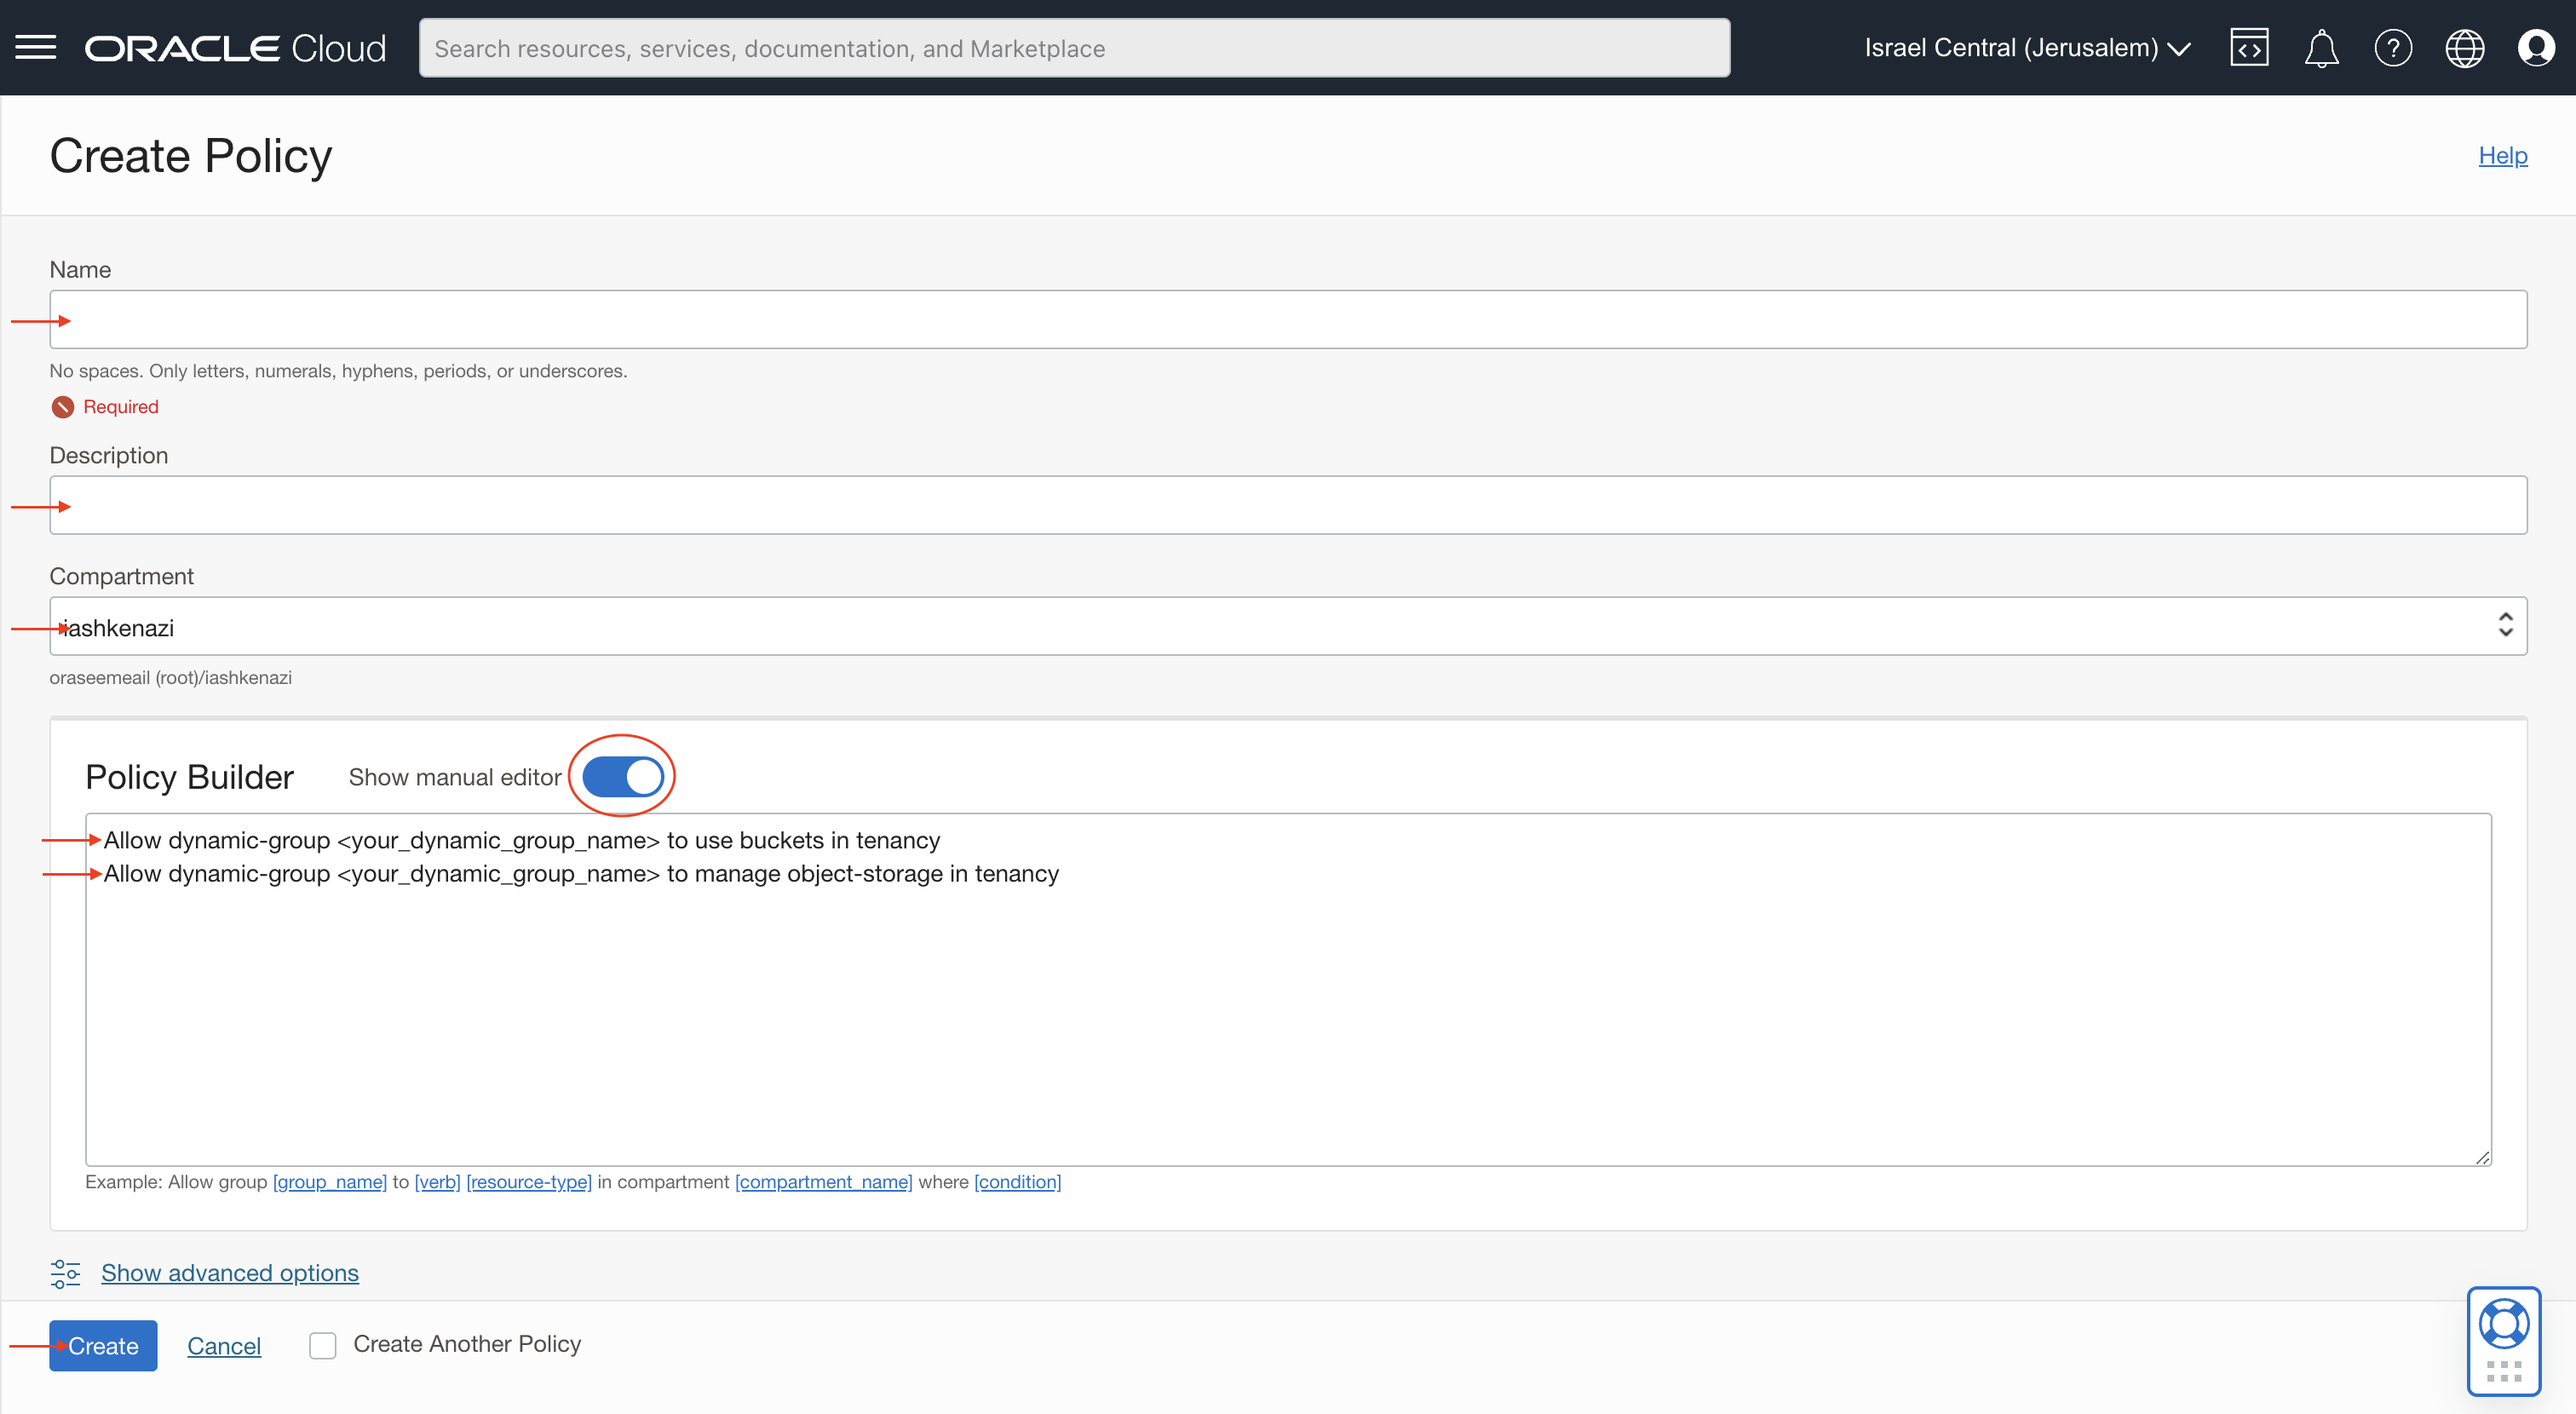
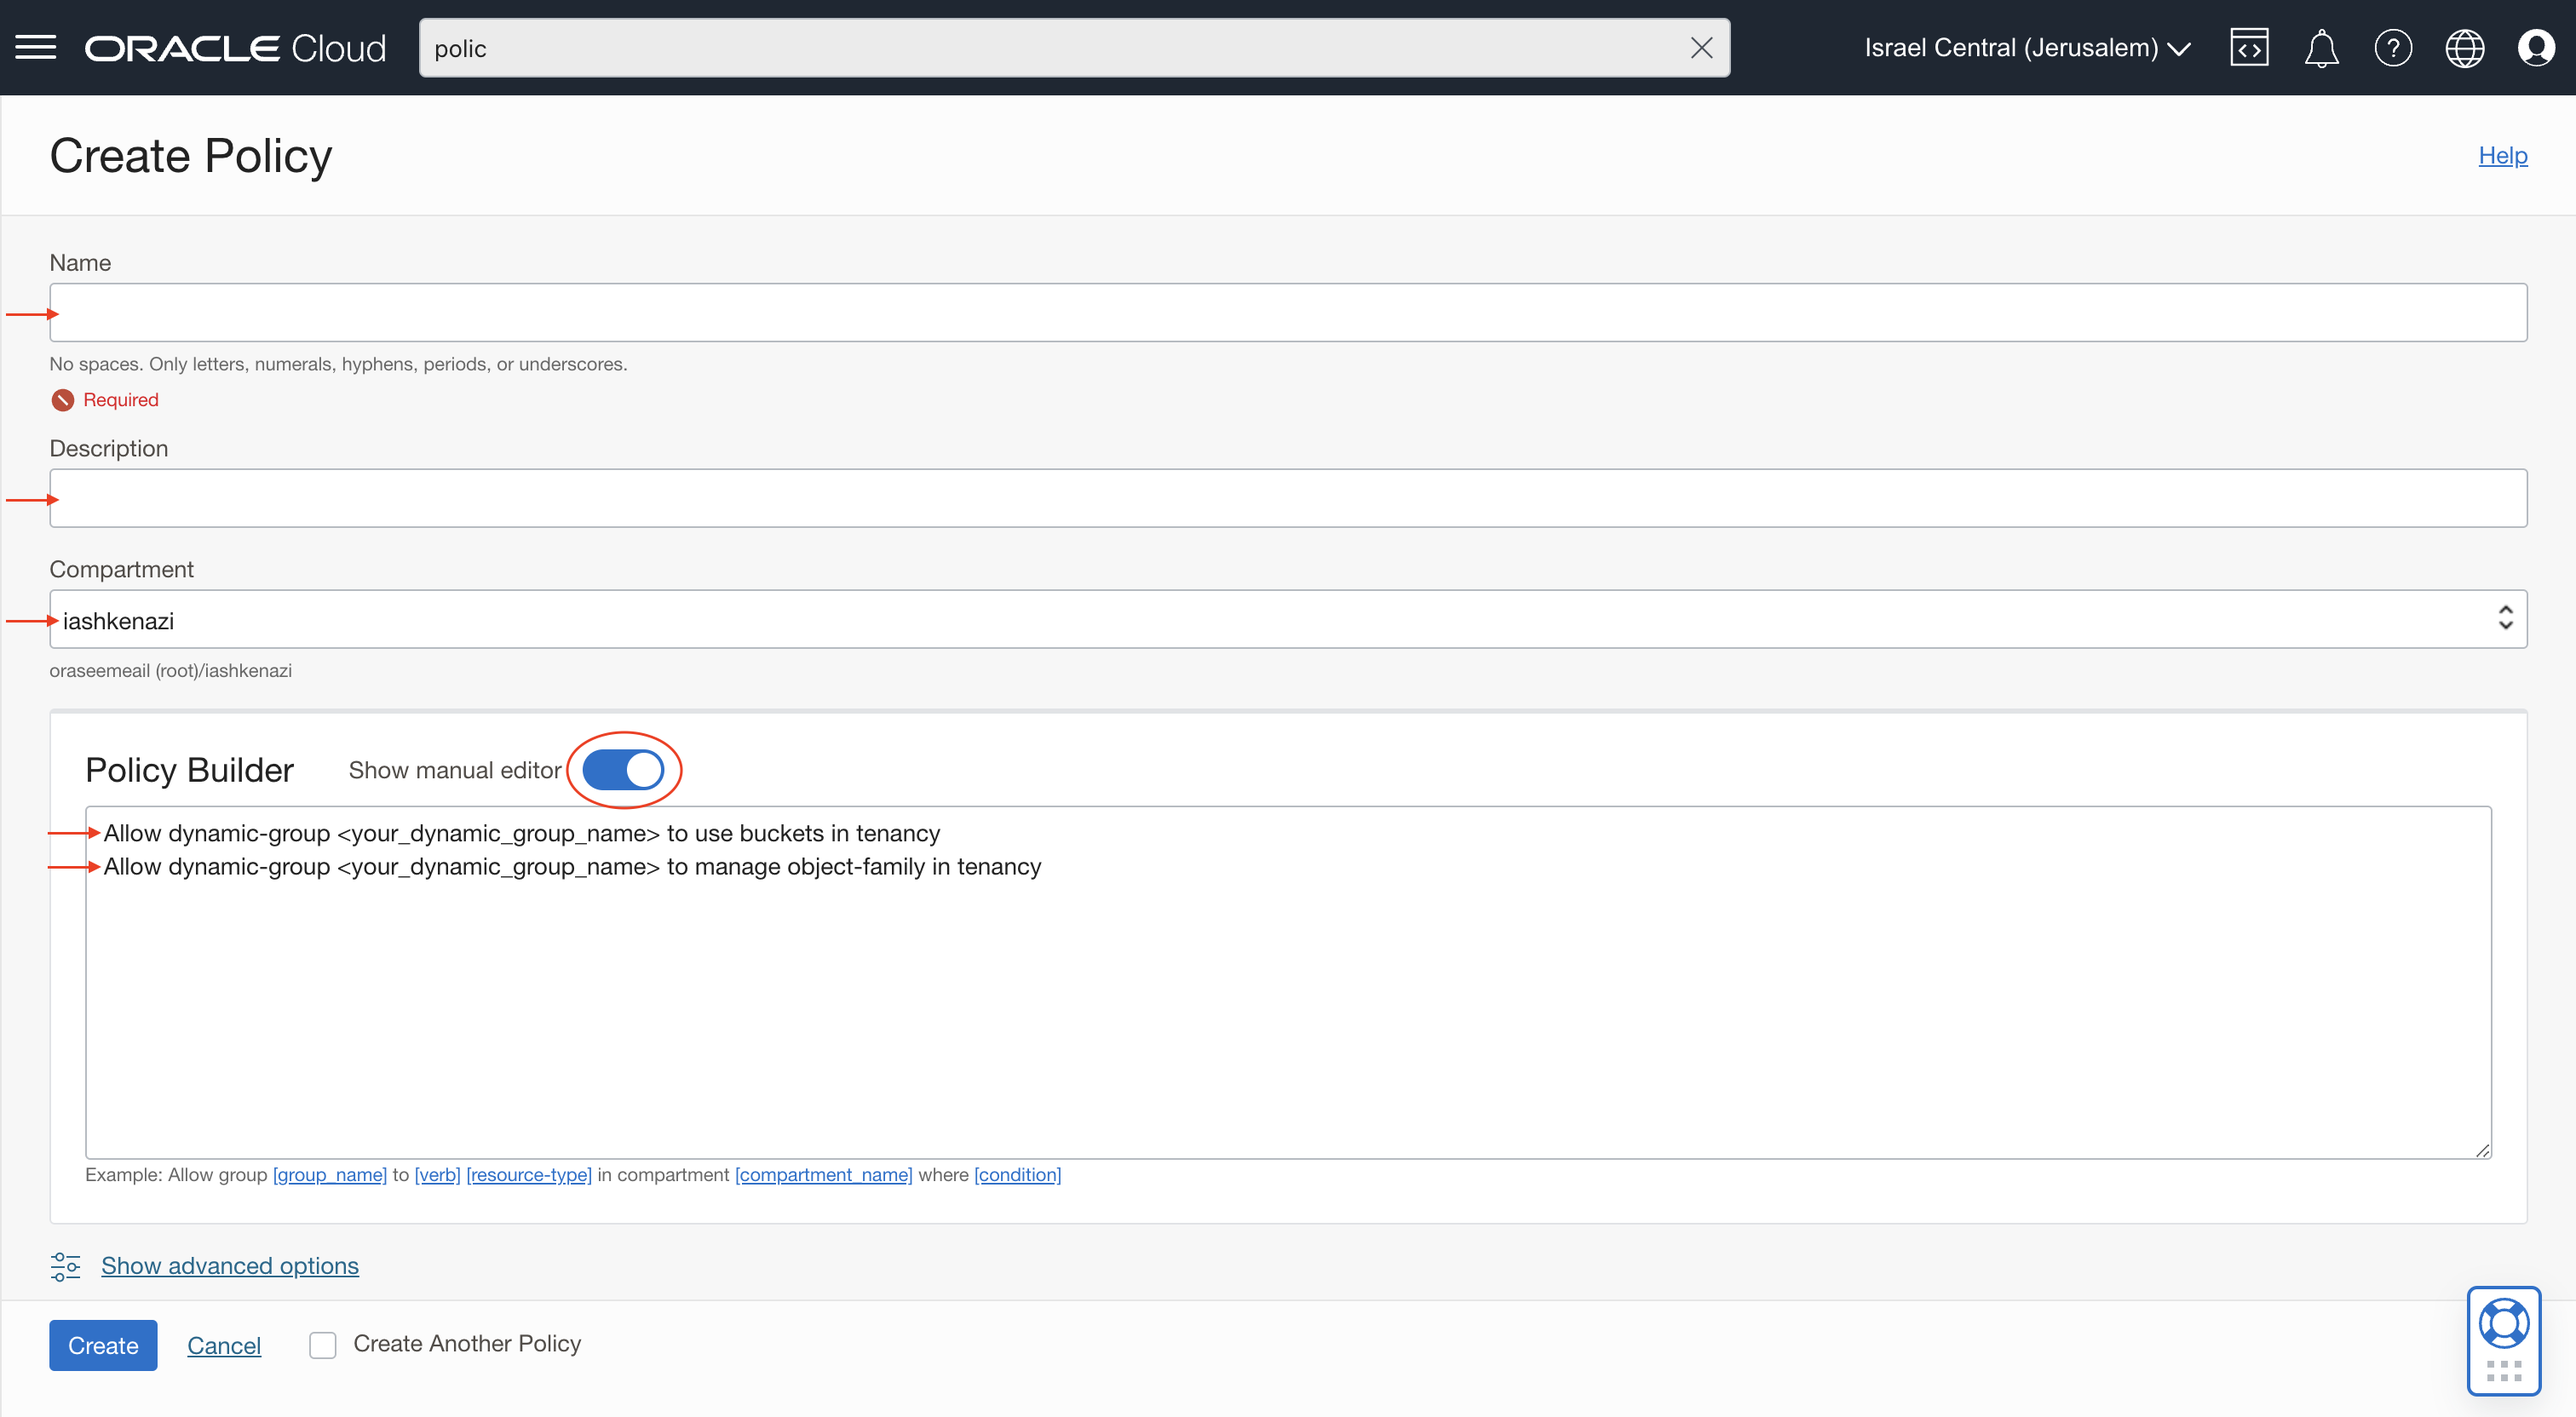
updated readme file3

diff --git a/README.md b/README.md
@@ -57,7 +57,12 @@
             2. **Description (optional):** A friendly description
             3. **Compartment:** Select your compartment
             4. Switch the toggle **Show manual editor** and add the following policies:
+
+                    Allow dynamic-group <your_dg_name> to use buckets in tenancy
+
+                    Allow dynamic-group <your_dg_name> to manage object-family in tenancy
                     
+            * ***The new policies will go into effect typically within 10 seconds***
 
             ![drawing](./SS/step0/create_policy.png)
 
